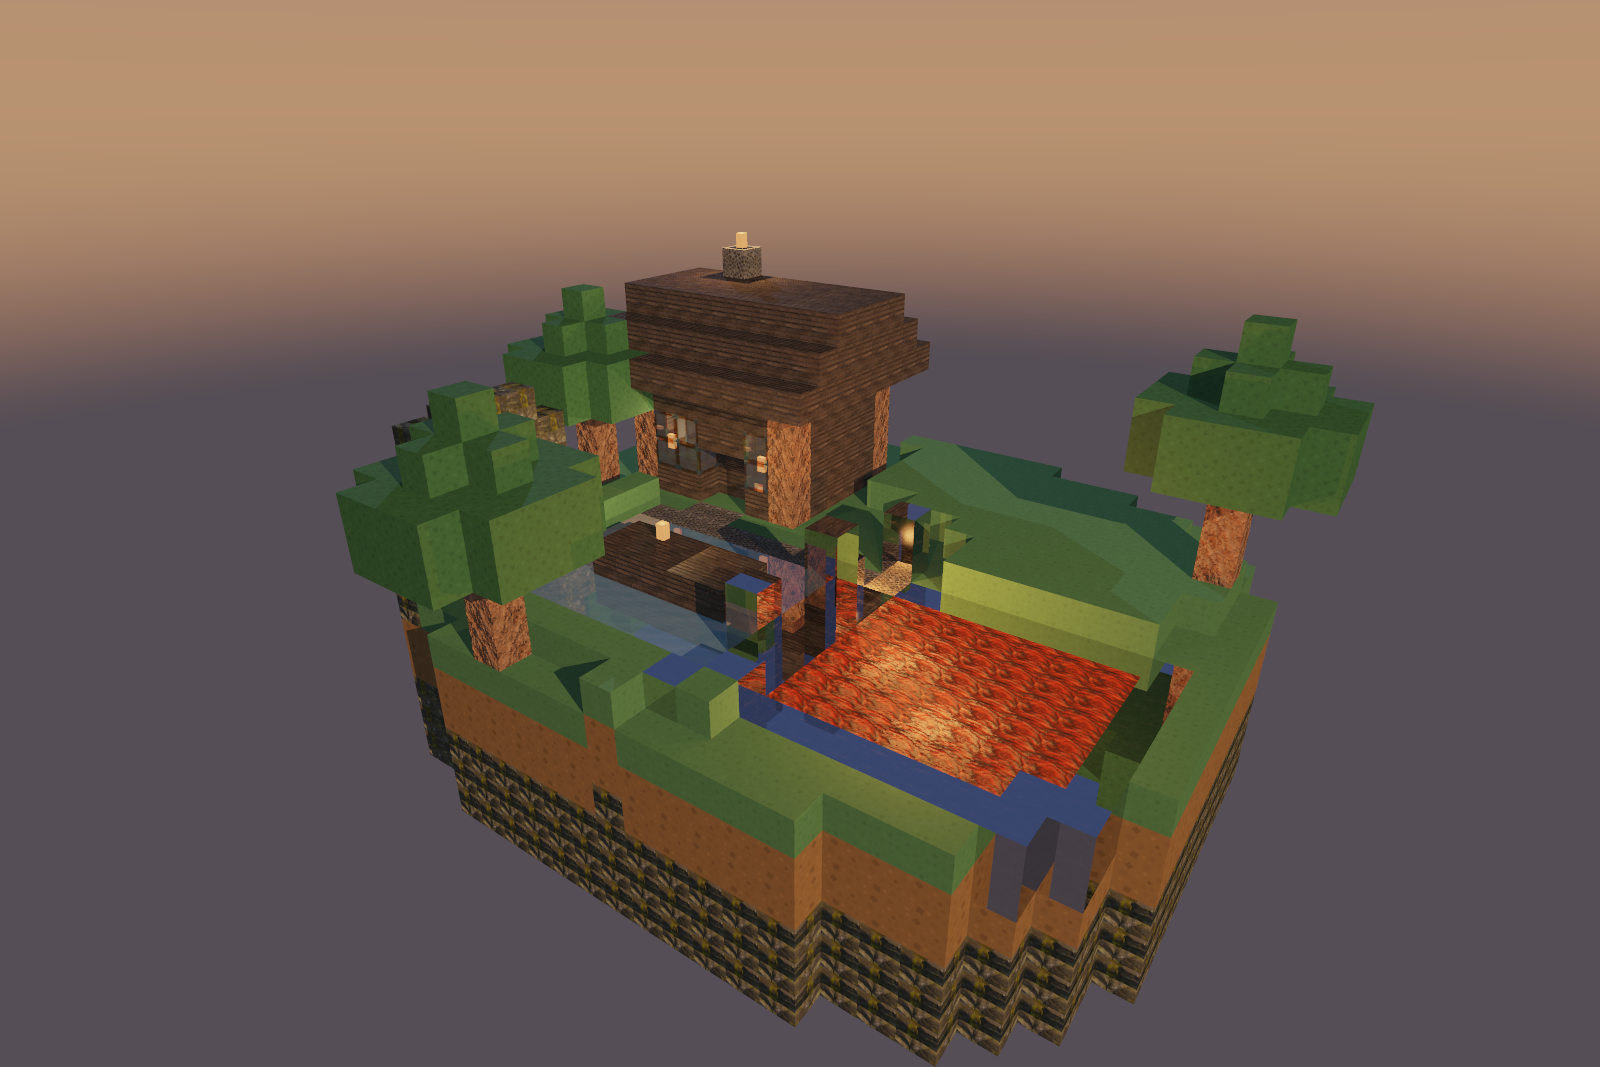
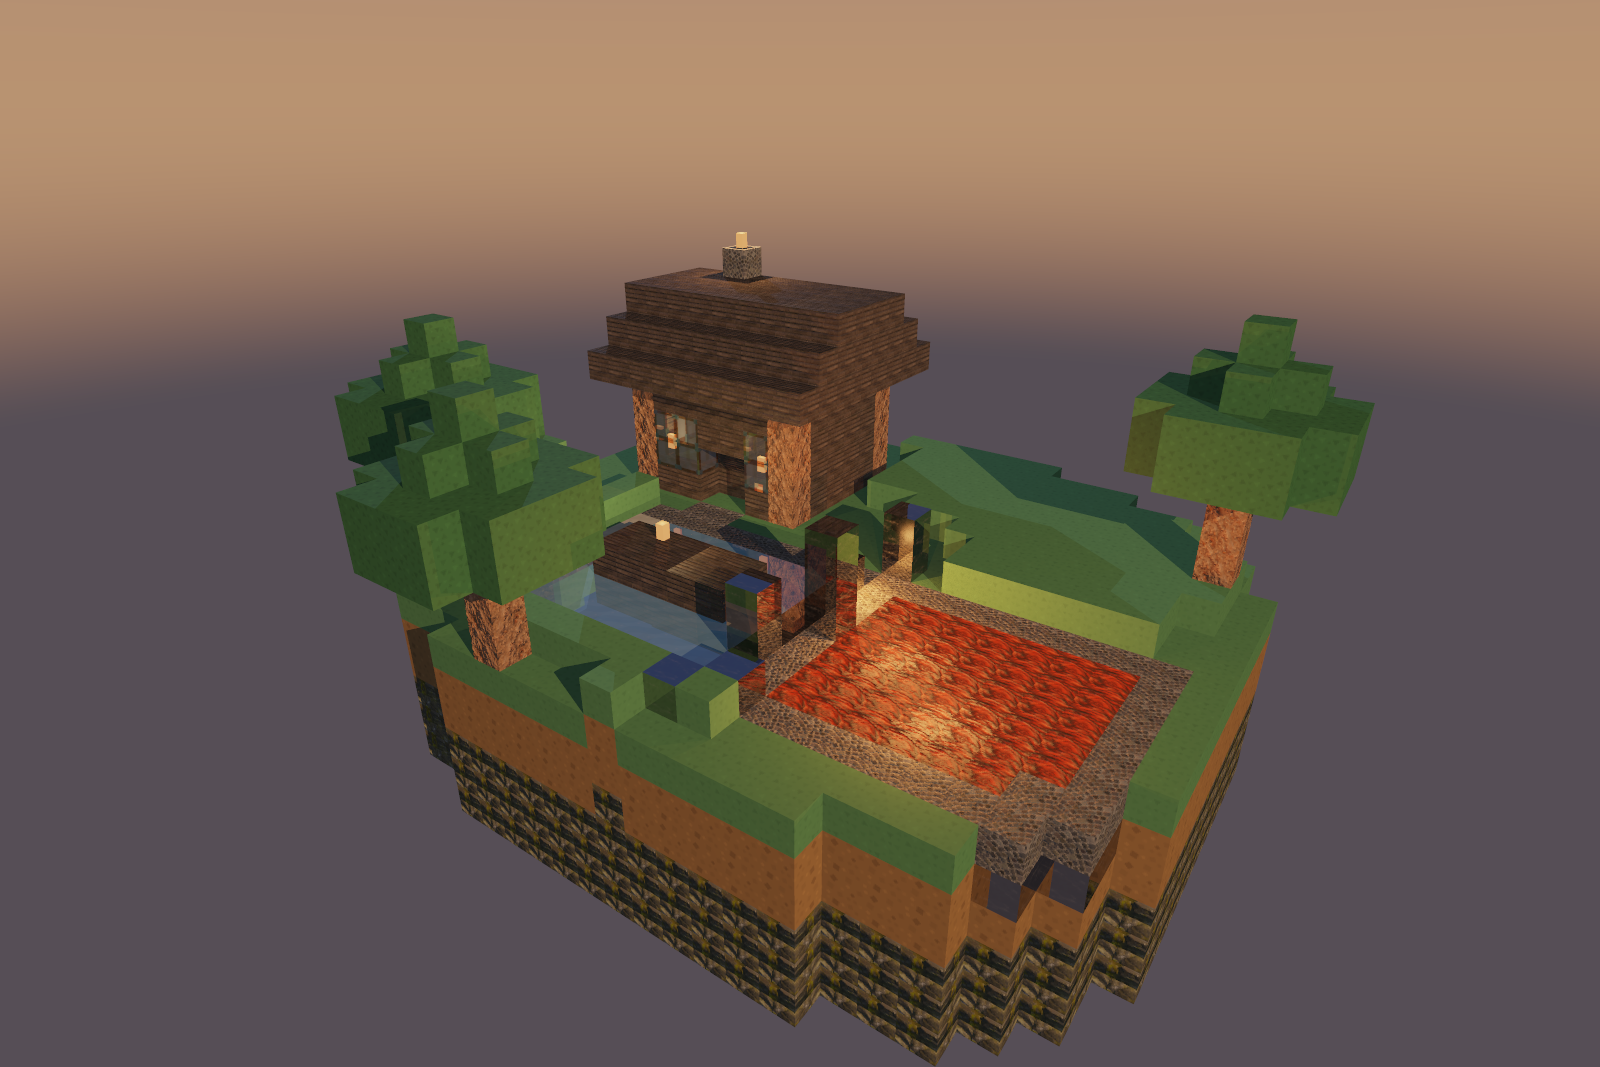
fix: stop the tree eating the cabin and the lava looking moated
Three things in the world did not read correctly.

The tree on the left was overwriting 21 cells of the cabin. plant_trees runs
after build_cabin and blocks are overwritten, so any canopy reaching the roof
simply deletes it. The tree moves onto the rocky outcrop, which keeps it clear
of the building and gives it height to cast a shadow across the roof.

The lava lake was ringed by a blue band that read as a moat of water. It was
the obsidian rim: as a flat surface obsidian reflects upward, and at sunset
that means the blue part of the sky. The rim becomes cobblestone, which reads
as a stone kerb around a fire pit, and obsidian is left only on the vertical
columns, where the reflection shows the lava instead and the material finally
does what it was put there for.

The rocky outcrop rose out of the grass with no transition and read as a heap
of coal rather than terrain. Its top is now capped with grass, so the rock
only shows on the steep faces, and it is one block lower.

Obsidian's reflection and specular weights come down as well, so its own black
texture carries the surface instead of being drowned by whatever it reflects.

diff --git a/src/scene.rs b/src/scene.rs
@@ -259,8 +259,15 @@ fn build_materials(textures: &mut TextureManager) -> Result<Vec<Material>, Strin
         },
         Material {
             name: "obsidiana",
-            albedo: [0.15, 0.70, 0.60, 0.00],
-            specular: 220.0,
+            // Reflexion y especular moderados a proposito. Con valores altos,
+            // las caras horizontales del reborde reflejaban el cielo del
+            // atardecer, que es azul, y el lago de lava acababa rodeado de una
+            // banda azul que se leia como un foso de agua. Bajandolos, manda la
+            // textura negra y el reflejo queda como un brillo; las columnas
+            // verticales siguen devolviendo el naranja de la lava, que es donde
+            // el efecto si tiene sentido.
+            albedo: [0.35, 0.40, 0.34, 0.00],
+            specular: 160.0,
             diffuse: Vec3::new(0.09, 0.07, 0.13),
             texture: Some(t_obsidian),
             ..Default::default()
@@ -545,14 +552,23 @@ fn raise_outcrop(world: &mut VoxelWorld) {
             let dx = (x + 10) as f32 / 3.0;
             let dz = (z - 5) as f32 / 3.5;
             let bump = (1.0 - (dx * dx + dz * dz)).max(0.0);
-            let top = (bump * 4.5).round() as i32;
+            let top = (bump * 3.0).round() as i32;
             if top <= 0 {
                 continue;
             }
             let base = terrain_top(x, z);
-            for y in base..=(base + top) {
+            let cima = base + top;
+
+            // Roca en el cuerpo de la loma y pasto en la cima.
+            //
+            // Sin la capa de pasto, el afloramiento salia de la hierba como un
+            // pegote de roca oscura sin ninguna transicion: se leia como un
+            // monton de carbon, no como terreno. Con la cima cubierta, la roca
+            // solo asoma en las caras inclinadas, que es donde asoma de verdad.
+            for y in base..cima {
                 world.set(x, y, z, STONE);
             }
+            world.set(x, cima, z, GRASS);
         }
     }
 }
@@ -624,6 +640,13 @@ fn carve_water_and_lava(world: &mut VoxelWorld) {
     }
 
     // Anillo: las celdas pegadas al lago que no son lago.
+    //
+    // El borde es de adoquin y no de obsidiana. Como superficie plana, la
+    // obsidiana refleja hacia arriba, o sea el cielo, que al atardecer es azul:
+    // un anillo de obsidiana de este tamaño rodeaba la lava de una banda azul
+    // que se leia como un foso de agua. El adoquin ahi se lee como un bordillo
+    // de piedra, que es lo que un borde de lava deberia parecer, y deja la
+    // obsidiana solo donde su reflejo si aporta: las columnas verticales.
     for &(x, z) in &pool {
         for dx in -1..=1 {
             for dz in -1..=1 {
@@ -631,7 +654,7 @@ fn carve_water_and_lava(world: &mut VoxelWorld) {
                 if pool.contains(&(nx, nz)) || !inside_island(nx, nz) {
                     continue;
                 }
-                world.set(nx, 0, nz, OBSIDIAN);
+                world.set(nx, 0, nz, COBBLE);
                 world.set(nx, -1, nz, OBSIDIAN);
             }
         }
@@ -773,8 +796,13 @@ fn build_pier(world: &mut VoxelWorld) {
 
 /// Arboles: tronco de cuatro bloques y copa de hojas sin las esquinas, para que
 /// la silueta no se vea cuadrada.
+///
+/// Las posiciones importan: esta funcion corre despues de levantar la cabaña y
+/// los bloques se sobrescriben, asi que una copa que alcance el tejado se lo
+/// come. El arbol de la izquierda se planta sobre el afloramiento rocoso, que
+/// ademas lo aleja de la cabaña y le da altura para proyectar sombra sobre ella.
 fn plant_trees(world: &mut VoxelWorld) {
-    for (x, z) in [(-11, -1), (10, -4), (-4, 9)] {
+    for (x, z) in [(-11, 5), (10, -4), (-4, 9)] {
         let base = terrain_top(x, z) + 1;
 
         for y in base..base + 4 {
